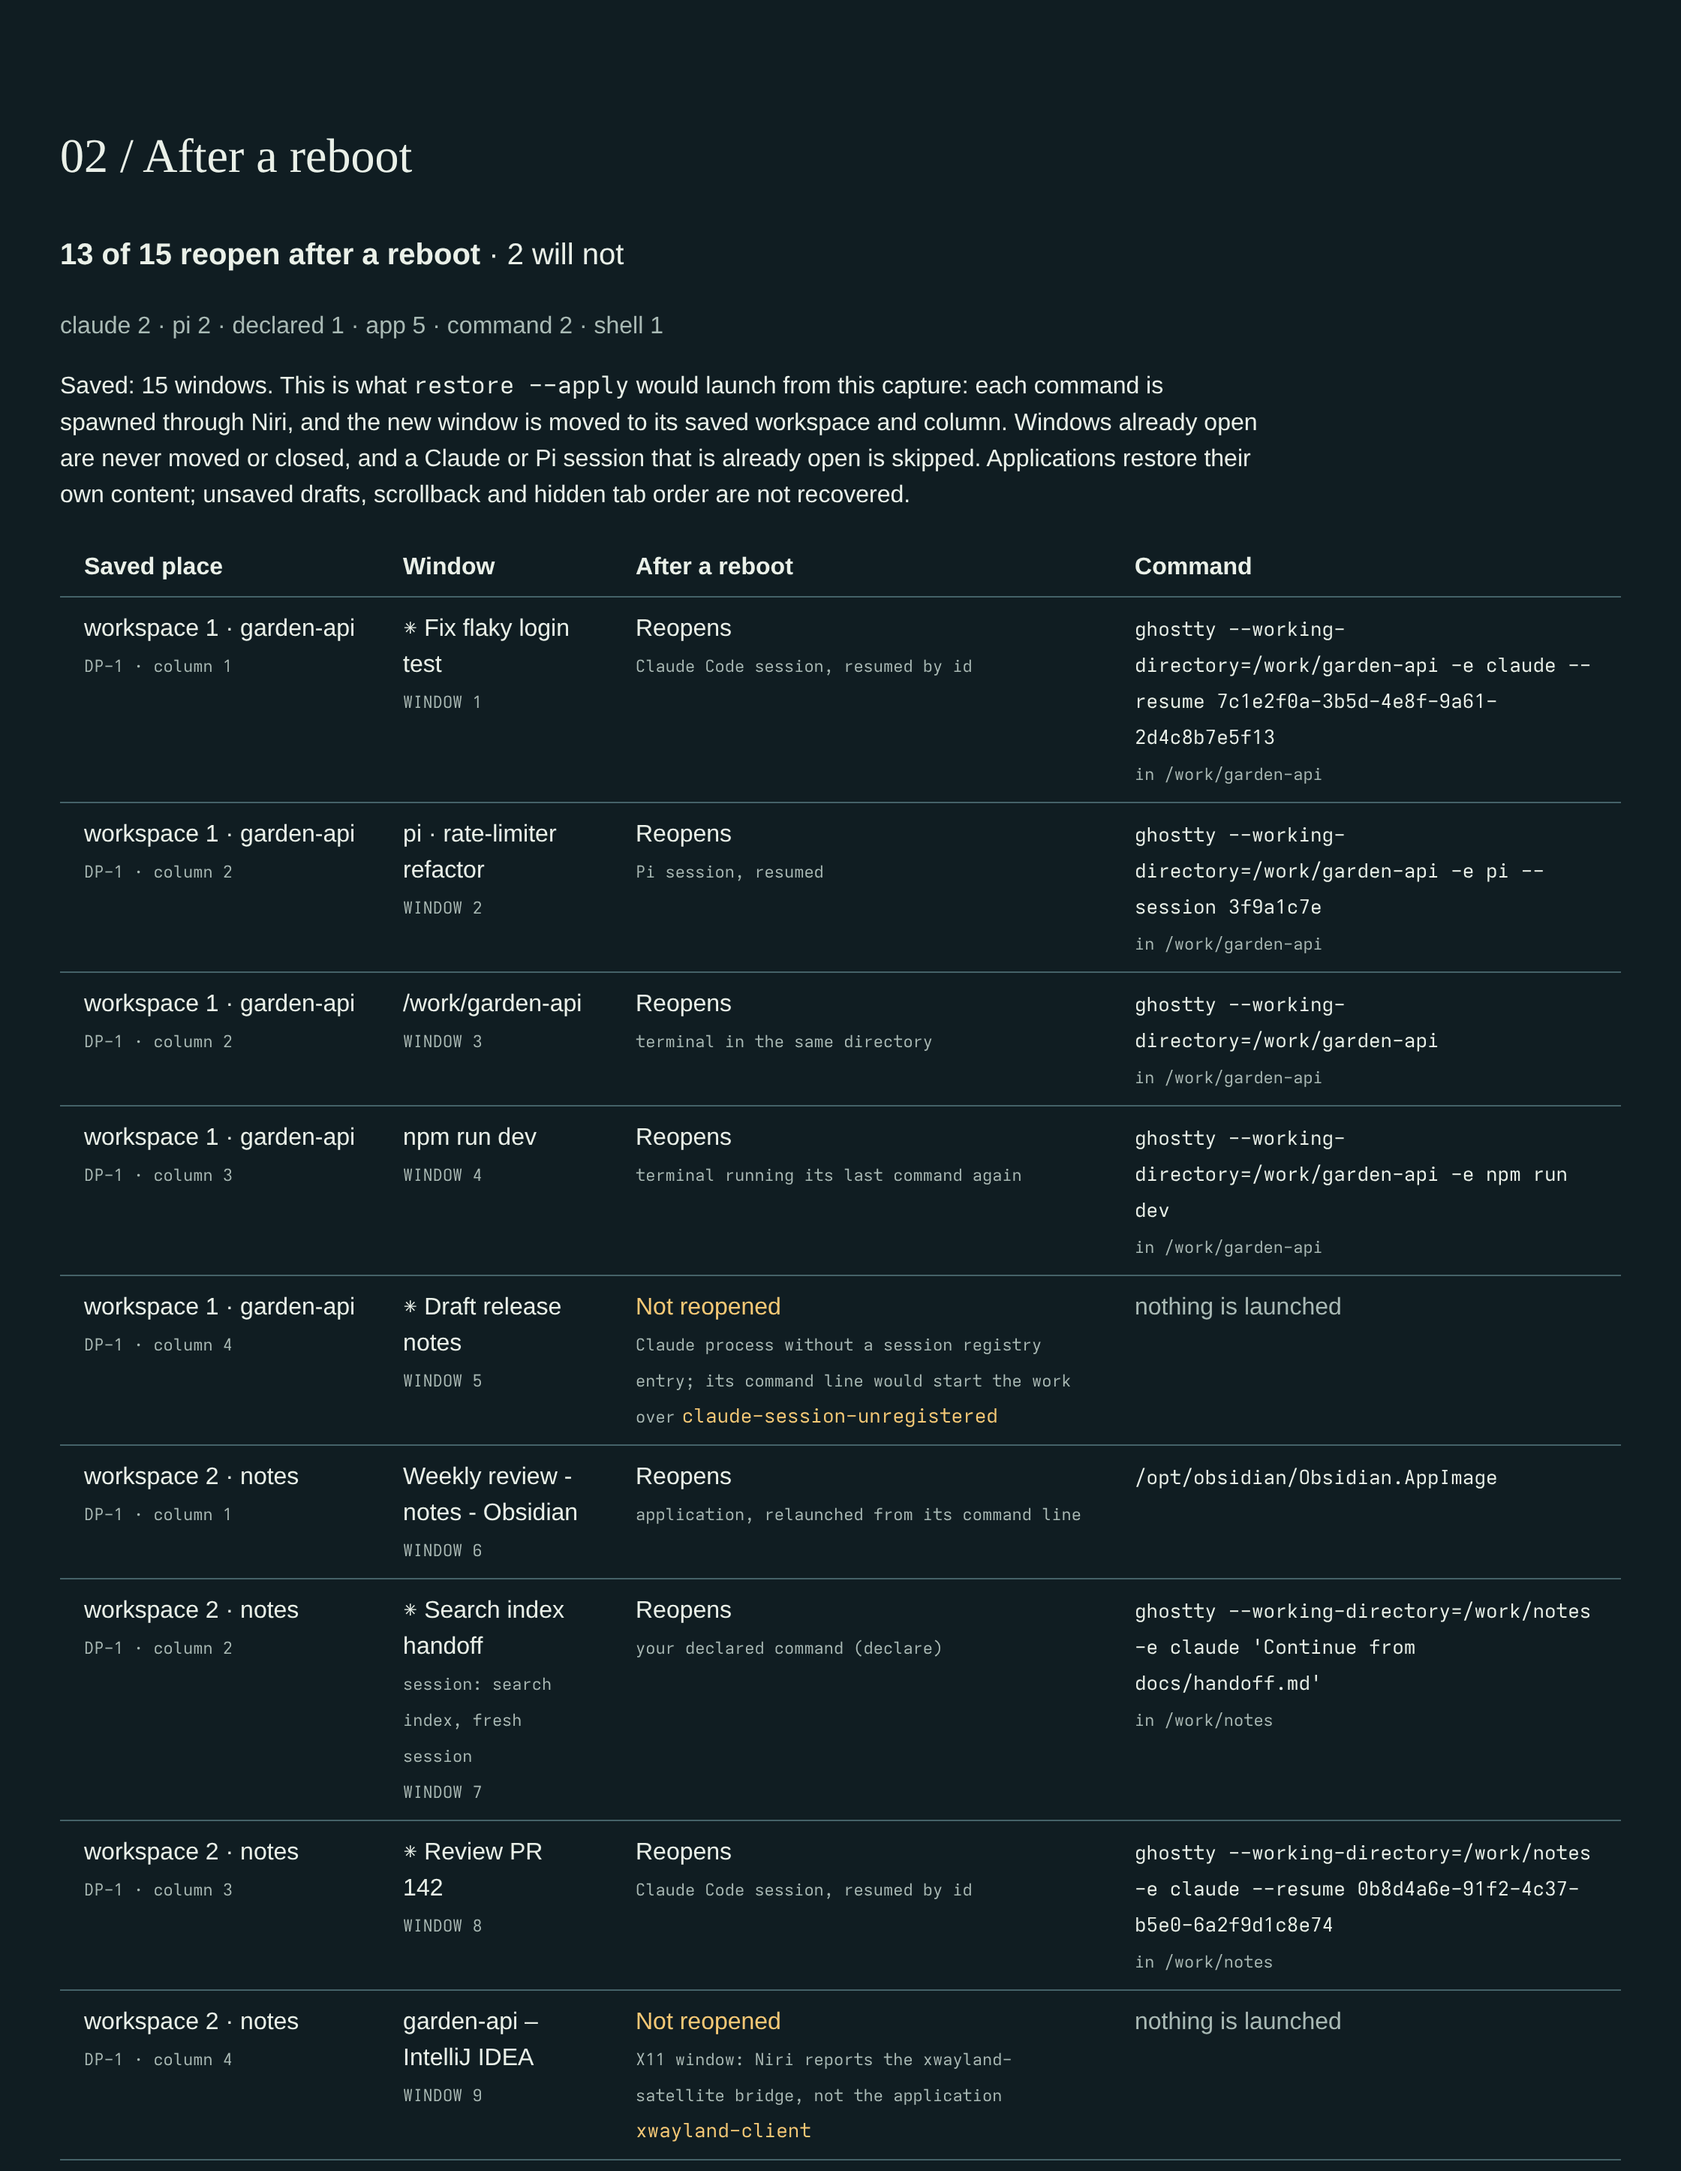
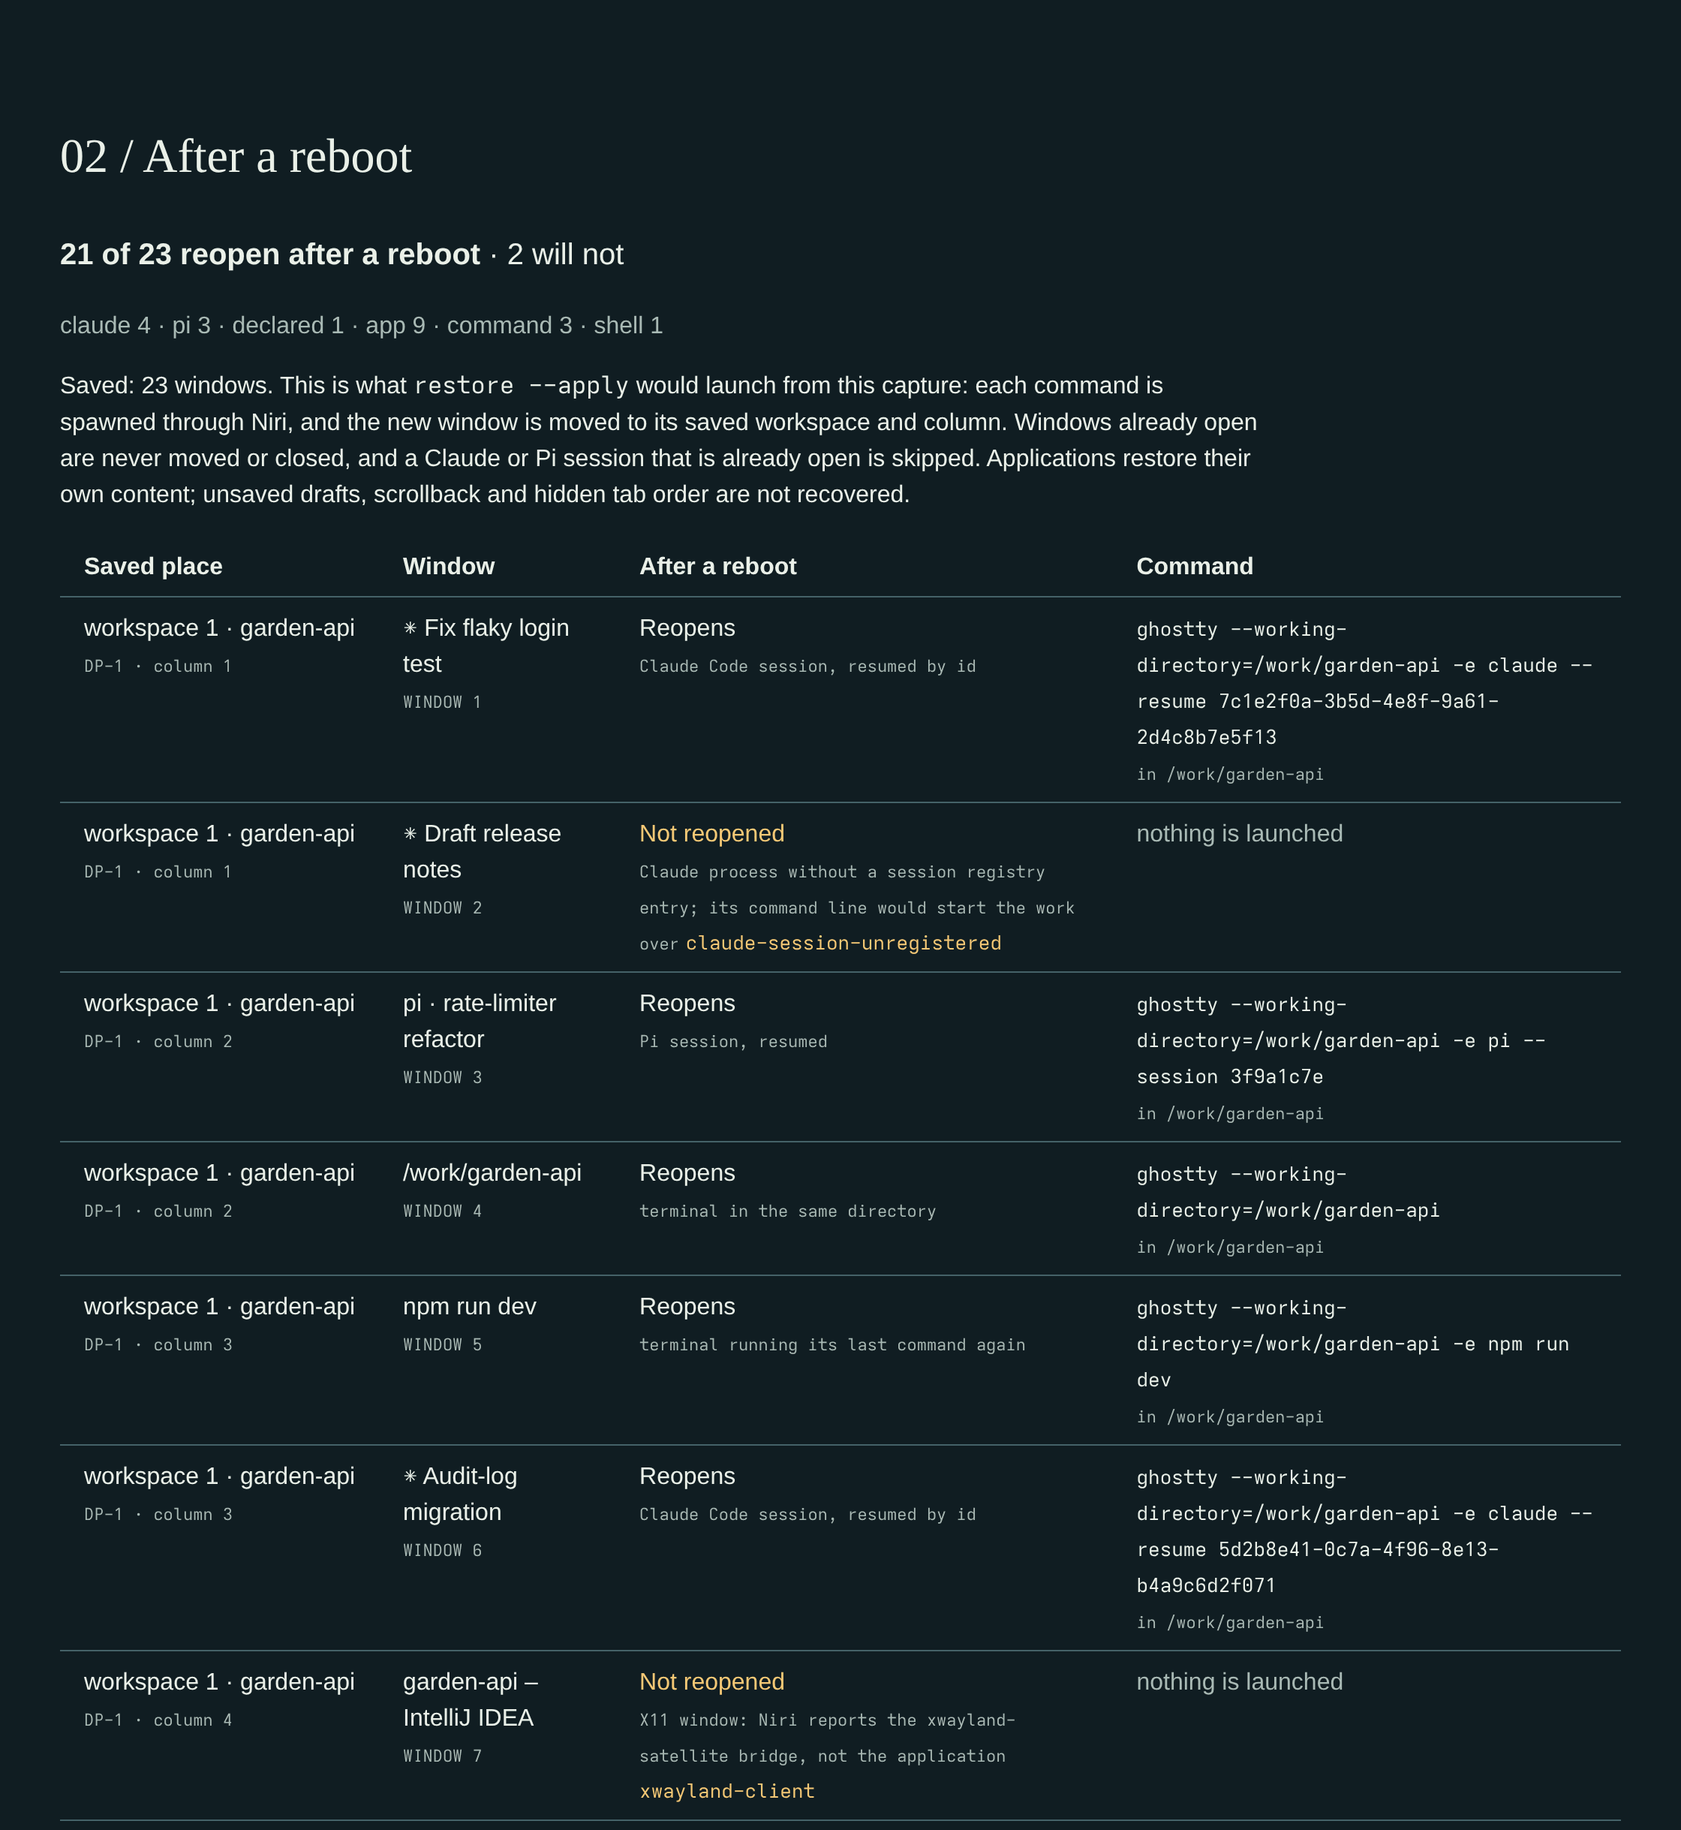
docs(screenshots): a fuller fabricated demo desktop
23 windows on 5 workspaces instead of 15 on 4: Claude Code and Pi
sessions across projects, four browser windows, mail and chat (an
Electron app with a rewritten process title), an ops workspace with a
floating window. The hero shows the first two workspaces; the reboot
ledger shows the project workspace with both misses.

diff --git a/scripts/demo-desktop.py b/scripts/demo-desktop.py
@@ -17,6 +17,8 @@ from niri_desktop_continuity.model import normalized_snapshot
 GHOSTTY = 2210  # one single-instance terminal process owns every terminal window
 TERMINAL = "com.mitchellh.ghostty"
 API, NOTES, INFRA = "/work/garden-api", "/work/notes", "/work/infra"
+BRAVE, FIREFOX, X11_BRIDGE = 1874, 1902, 1702
+WORKSPACES = ("garden-api", "web", "notes", "chat", "ops")
 
 
 def recipe(kind, argv=(), cwd=None, label=None, reason=None):
@@ -35,147 +37,174 @@ def claude(cwd, session_id, title):
     return terminal("claude", cwd, "claude", "--resume", session_id, label=title)
 
 
-# (workspace id, column, tile, pid, app id, title, reopen recipe)
-WINDOWS = [
-    (
-        1,
-        1,
-        1,
-        GHOSTTY,
-        TERMINAL,
-        "✳ Fix flaky login test",
-        claude(API, "7c1e2f0a-3b5d-4e8f-9a61-2d4c8b7e5f13", "Fix flaky login test"),
-    ),
-    (
-        1,
-        2,
-        1,
-        GHOSTTY,
-        TERMINAL,
-        "pi · rate-limiter refactor",
-        terminal("pi", API, "pi", "--session", "3f9a1c7e", label="rate-limiter refactor"),
-    ),
-    (1, 2, 2, GHOSTTY, TERMINAL, API, terminal("shell", API)),
-    (1, 3, 1, GHOSTTY, TERMINAL, "npm run dev", terminal("command", API, "npm", "run", "dev")),
-    # Started from inside another Claude session's shell: no registry entry, so never replayed.
-    (
-        1,
-        4,
-        1,
-        GHOSTTY,
-        TERMINAL,
-        "✳ Draft release notes",
-        recipe("unknown", reason="claude-session-unregistered"),
-    ),
-    (
-        2,
-        1,
-        1,
-        1990,
-        "md.Obsidian",
-        "Weekly review - notes - Obsidian",
-        recipe("app", ["/opt/obsidian/Obsidian.AppImage"]),
-    ),
-    (
-        2,
-        2,
-        1,
-        GHOSTTY,
-        TERMINAL,
-        "✳ Search index handoff",
-        terminal(
-            "declared",
-            NOTES,
-            "claude",
-            "Continue from docs/handoff.md",
-            label="search index, fresh session",
-        ),
-    ),
-    (
-        2,
-        3,
-        1,
-        GHOSTTY,
-        TERMINAL,
-        "✳ Review PR 142",
-        claude(NOTES, "0b8d4a6e-91f2-4c37-b5e0-6a2f9d1c8e74", "Review PR 142"),
-    ),
-    # Niri reports only the xwayland-satellite bridge as the owner of an X11 window.
-    (
-        2,
-        4,
-        1,
-        1702,
-        "jetbrains-idea",
-        "garden-api – IntelliJ IDEA",
-        recipe("unknown", reason="xwayland-client"),
-    ),
-    (3, 1, 1, 1874, "brave-browser", "Niri wiki: Configuration — Brave", recipe("app", ["brave"])),
-    (
-        3,
-        2,
-        1,
-        1874,
-        "brave-browser",
-        "Pull requests · garden-api — Brave",
-        recipe("app", ["brave"]),
-    ),
-    (
-        3,
-        3,
-        1,
-        1920,
-        "org.mozilla.Thunderbird",
-        "Inbox — Thunderbird",
-        recipe("app", ["thunderbird"]),
-    ),
-    (4, 1, 1, GHOSTTY, TERMINAL, "btop", terminal("command", INFRA, "btop")),
-    (
-        4,
-        2,
-        1,
-        GHOSTTY,
-        TERMINAL,
-        "pi · deploy checklist",
-        terminal("pi", INFRA, "pi", "--session", "a41d0b92", label="deploy checklist"),
-    ),
-    (
-        4,
-        None,
-        None,
-        2305,
-        "org.gnome.Calculator",
-        "Calculator",
-        recipe("app", ["gnome-calculator"]),
-    ),
-]
+def pi(cwd, session, title):
+    return terminal("pi", cwd, "pi", "--session", session, label=title)
+
+
+def app(*argv):
+    return recipe("app", argv)
+
+
+# workspace -> columns -> tiles of (pid, app id, title, reopen recipe)
+DESKTOP = {
+    "garden-api": [
+        [
+            (
+                GHOSTTY,
+                TERMINAL,
+                "✳ Fix flaky login test",
+                claude(API, "7c1e2f0a-3b5d-4e8f-9a61-2d4c8b7e5f13", "Fix flaky login test"),
+            ),
+            # Started from inside the Claude session above: no registry entry, so never replayed.
+            (
+                GHOSTTY,
+                TERMINAL,
+                "✳ Draft release notes",
+                recipe("unknown", reason="claude-session-unregistered"),
+            ),
+        ],
+        [
+            (
+                GHOSTTY,
+                TERMINAL,
+                "pi · rate-limiter refactor",
+                pi(API, "3f9a1c7e", "rate-limiter refactor"),
+            ),
+            (GHOSTTY, TERMINAL, API, terminal("shell", API)),
+        ],
+        [
+            (GHOSTTY, TERMINAL, "npm run dev", terminal("command", API, "npm", "run", "dev")),
+            (
+                GHOSTTY,
+                TERMINAL,
+                "✳ Audit-log migration",
+                claude(API, "5d2b8e41-0c7a-4f96-8e13-b4a9c6d2f071", "Audit-log migration"),
+            ),
+        ],
+        # Niri reports only the xwayland-satellite bridge as the owner of an X11 window.
+        [
+            (
+                X11_BRIDGE,
+                "jetbrains-idea",
+                "garden-api – IntelliJ IDEA",
+                recipe("unknown", reason="xwayland-client"),
+            )
+        ],
+    ],
+    "web": [
+        [(BRAVE, "brave-browser", "Niri wiki: Configuration — Brave", app("brave"))],
+        [(BRAVE, "brave-browser", "Pull requests · garden-api — Brave", app("brave"))],
+        [(BRAVE, "brave-browser", "Grafana: API latency — Brave", app("brave"))],
+        [(FIREFOX, "org.mozilla.firefox", "structuredClone() — MDN — Firefox", app("firefox"))],
+    ],
+    "notes": [
+        [
+            (
+                1990,
+                "md.Obsidian",
+                "Weekly review - notes - Obsidian",
+                app("/opt/obsidian/Obsidian.AppImage"),
+            )
+        ],
+        [
+            (
+                GHOSTTY,
+                TERMINAL,
+                "✳ Search index handoff",
+                terminal(
+                    "declared",
+                    NOTES,
+                    "claude",
+                    "Continue from docs/handoff.md",
+                    label="search index, fresh session",
+                ),
+            )
+        ],
+        [
+            (
+                GHOSTTY,
+                TERMINAL,
+                "✳ Review PR 142",
+                claude(NOTES, "0b8d4a6e-91f2-4c37-b5e0-6a2f9d1c8e74", "Review PR 142"),
+            ),
+            (GHOSTTY, TERMINAL, "pi · restore guide", pi(NOTES, "c07e5a19", "restore guide")),
+        ],
+    ],
+    "chat": [
+        [(1920, "org.mozilla.Thunderbird", "Inbox — Thunderbird", app("thunderbird"))],
+        # Electron rewrote its command line into one title; capture split it at the program.
+        [
+            (
+                2044,
+                "signal",
+                "Signal",
+                {
+                    **app("/usr/lib/signal-desktop/signal-desktop", "--use-tray-icon"),
+                    "argv_from_process_title": True,
+                },
+            )
+        ],
+        [(2101, "org.gnome.Nautilus", "garden-api — Files", app("nautilus", "--new-window"))],
+    ],
+    "ops": [
+        [(GHOSTTY, TERMINAL, "btop", terminal("command", INFRA, "btop"))],
+        [
+            (GHOSTTY, TERMINAL, "pi · deploy checklist", pi(INFRA, "a41d0b92", "deploy checklist")),
+            (
+                GHOSTTY,
+                TERMINAL,
+                "✳ Investigate 502s on staging",
+                claude(
+                    INFRA, "9e4f7a20-6b1d-4c58-a3e2-17d0c5b8f936", "Investigate 502s on staging"
+                ),
+            ),
+        ],
+        [(GHOSTTY, TERMINAL, "ssh staging-1", terminal("command", INFRA, "ssh", "staging-1"))],
+    ],
+}
+FLOATING = {"ops": (2305, "org.gnome.Calculator", "Calculator", app("gnome-calculator"))}
 EXECUTABLES = {
-    1874: "/opt/brave-bin/brave",
+    BRAVE: "/opt/brave-bin/brave",
+    FIREFOX: "/usr/lib/firefox/firefox",
     1920: "/usr/lib/thunderbird/thunderbird",
     1990: "/opt/obsidian/Obsidian.AppImage",
+    2044: "/usr/lib/signal-desktop/signal-desktop",
+    2101: "/usr/bin/nautilus",
     GHOSTTY: "/usr/bin/ghostty",
-    1702: "/usr/bin/xwayland-satellite",
+    X11_BRIDGE: "/usr/bin/xwayland-satellite",
     2305: "/usr/bin/gnome-calculator",
 }
 
 
-def window(wid, workspace, column, tile, pid, app_id, title, reopen):
-    layout = {"tile_size": [1264.0, 1384.0], "window_size": [1264, 1384]}
-    if column is None:
-        layout = {"tile_pos_in_workspace_view": [1840.0, 96.0], "tile_size": [420.0, 560.0]}
-    else:
-        layout["pos_in_scrolling_layout"] = [column, tile]
-    return {
-        "id": wid,
-        "pid": pid,
-        "app_id": app_id,
-        "title": title,
-        "workspace_id": workspace,
-        "is_floating": column is None,
-        "is_focused": wid == 1,
-        "layout": layout,
-        "reopen": reopen,
-    }
+TILED = {"tile_size": [1264.0, 1384.0], "window_size": [1264, 1384]}
+FLOATED = {"tile_pos_in_workspace_view": [1840.0, 96.0], "tile_size": [420.0, 560.0]}
+
+
+def windows() -> list[dict]:
+    rows = []
+    for workspace, name in enumerate(WORKSPACES, 1):
+        placed = [
+            (tile, {**TILED, "pos_in_scrolling_layout": [column, index]})
+            for column, tiles in enumerate(DESKTOP[name], 1)
+            for index, tile in enumerate(tiles, 1)
+        ]
+        if name in FLOATING:
+            placed.append((FLOATING[name], FLOATED))
+        for (pid, app_id, title, reopen), layout in placed:
+            rows.append(
+                {
+                    "id": len(rows) + 1,
+                    "pid": pid,
+                    "app_id": app_id,
+                    "title": title,
+                    "workspace_id": workspace,
+                    "is_floating": layout is FLOATED,
+                    "is_focused": not rows,
+                    "layout": layout,
+                    "reopen": reopen,
+                }
+            )
+    return rows
 
 
 def demo_snapshot() -> dict:
@@ -194,9 +223,9 @@ def demo_snapshot() -> dict:
             ],
             "workspaces": [
                 {"id": ws, "idx": ws, "name": name, "output": "DP-1", "is_focused": ws == 1}
-                for ws, name in enumerate(("garden-api", "notes", "web", "ops"), 1)
+                for ws, name in enumerate(WORKSPACES, 1)
             ],
-            "windows": [window(wid, *row) for wid, row in enumerate(WINDOWS, 1)],
+            "windows": windows(),
             "processes": [
                 {
                     "pid": pid,

diff --git a/tests/test_map.py b/tests/test_map.py
@@ -212,7 +212,9 @@ def test_documentation_demo_desktop_is_fabricated_and_display_valid(tmp_path):
     source = demo.demo_snapshot()
     assert readiness(source)["ready"] and source["identity"]["boot_id"] == "demo"
     after = ledger(render_html(source))
-    assert "13 of 15 reopen after a reboot" in after and "2 will not" in after
+    assert "21 of 23 reopen after a reboot" in after and "2 will not" in after
+    assert "claude 4 · pi 3 · declared 1 · app 9 · command 3 · shell 1" in after
+    assert after.count("split from the process title") == 1
     for reason in ("claude-session-unregistered", "xwayland-client"):
         assert f"<code>{reason}</code>" in after
     assert "reopens as declared" in render_html(source)

diff --git a/README.md b/README.md
@@ -4,10 +4,11 @@
 reopen on their workspaces in their column order, Claude Code and Pi sessions resume by id, and
 anything that cannot be reopened safely is reported, never guessed.
 
-![Offline preview of a fabricated demo desktop: workspace 1 with five terminal windows, each tile saying whether it reopens after a reboot](docs/assets/preview-map.png)
+![Offline preview of a fabricated demo desktop: a project workspace with Claude Code and Pi sessions, a dev server and an X11 IDE, then a browser workspace; each tile says whether it reopens after a reboot](docs/assets/preview-map.png)
 
-<sub>The offline preview page, rendered from a fabricated demo desktop (not anyone's real one).
-Every tile says how it comes back after a reboot, or why it will not.</sub>
+<sub>The offline preview page for a fabricated demo desktop (not anyone's real one): the first two
+of its five workspaces, 23 windows in all. Every tile says how it comes back after a reboot, or
+why it will not.</sub>
 
 ## Why
 
@@ -74,9 +75,10 @@ removes it.
 every saved window: whether it reopens, as what, with the exact command and directory, or why it
 will not.
 
-![The "After a reboot" section of the preview for the same demo desktop: 13 of 15 reopen; an unregistered Claude session and an X11 window will not, each with its reason](docs/assets/preview-after-reboot.png)
+![The "After a reboot" section of the preview for the same demo desktop: 21 of 23 reopen; an unregistered Claude session and an X11 IDE will not, each with its reason](docs/assets/preview-after-reboot.png)
 
-<sub>Same fabricated demo desktop. `restore` prints the same plan as JSON.</sub>
+<sub>Same fabricated demo desktop, first workspace's rows. `restore` prints the same plan as
+JSON.</sub>
 
 ## How it works
 
